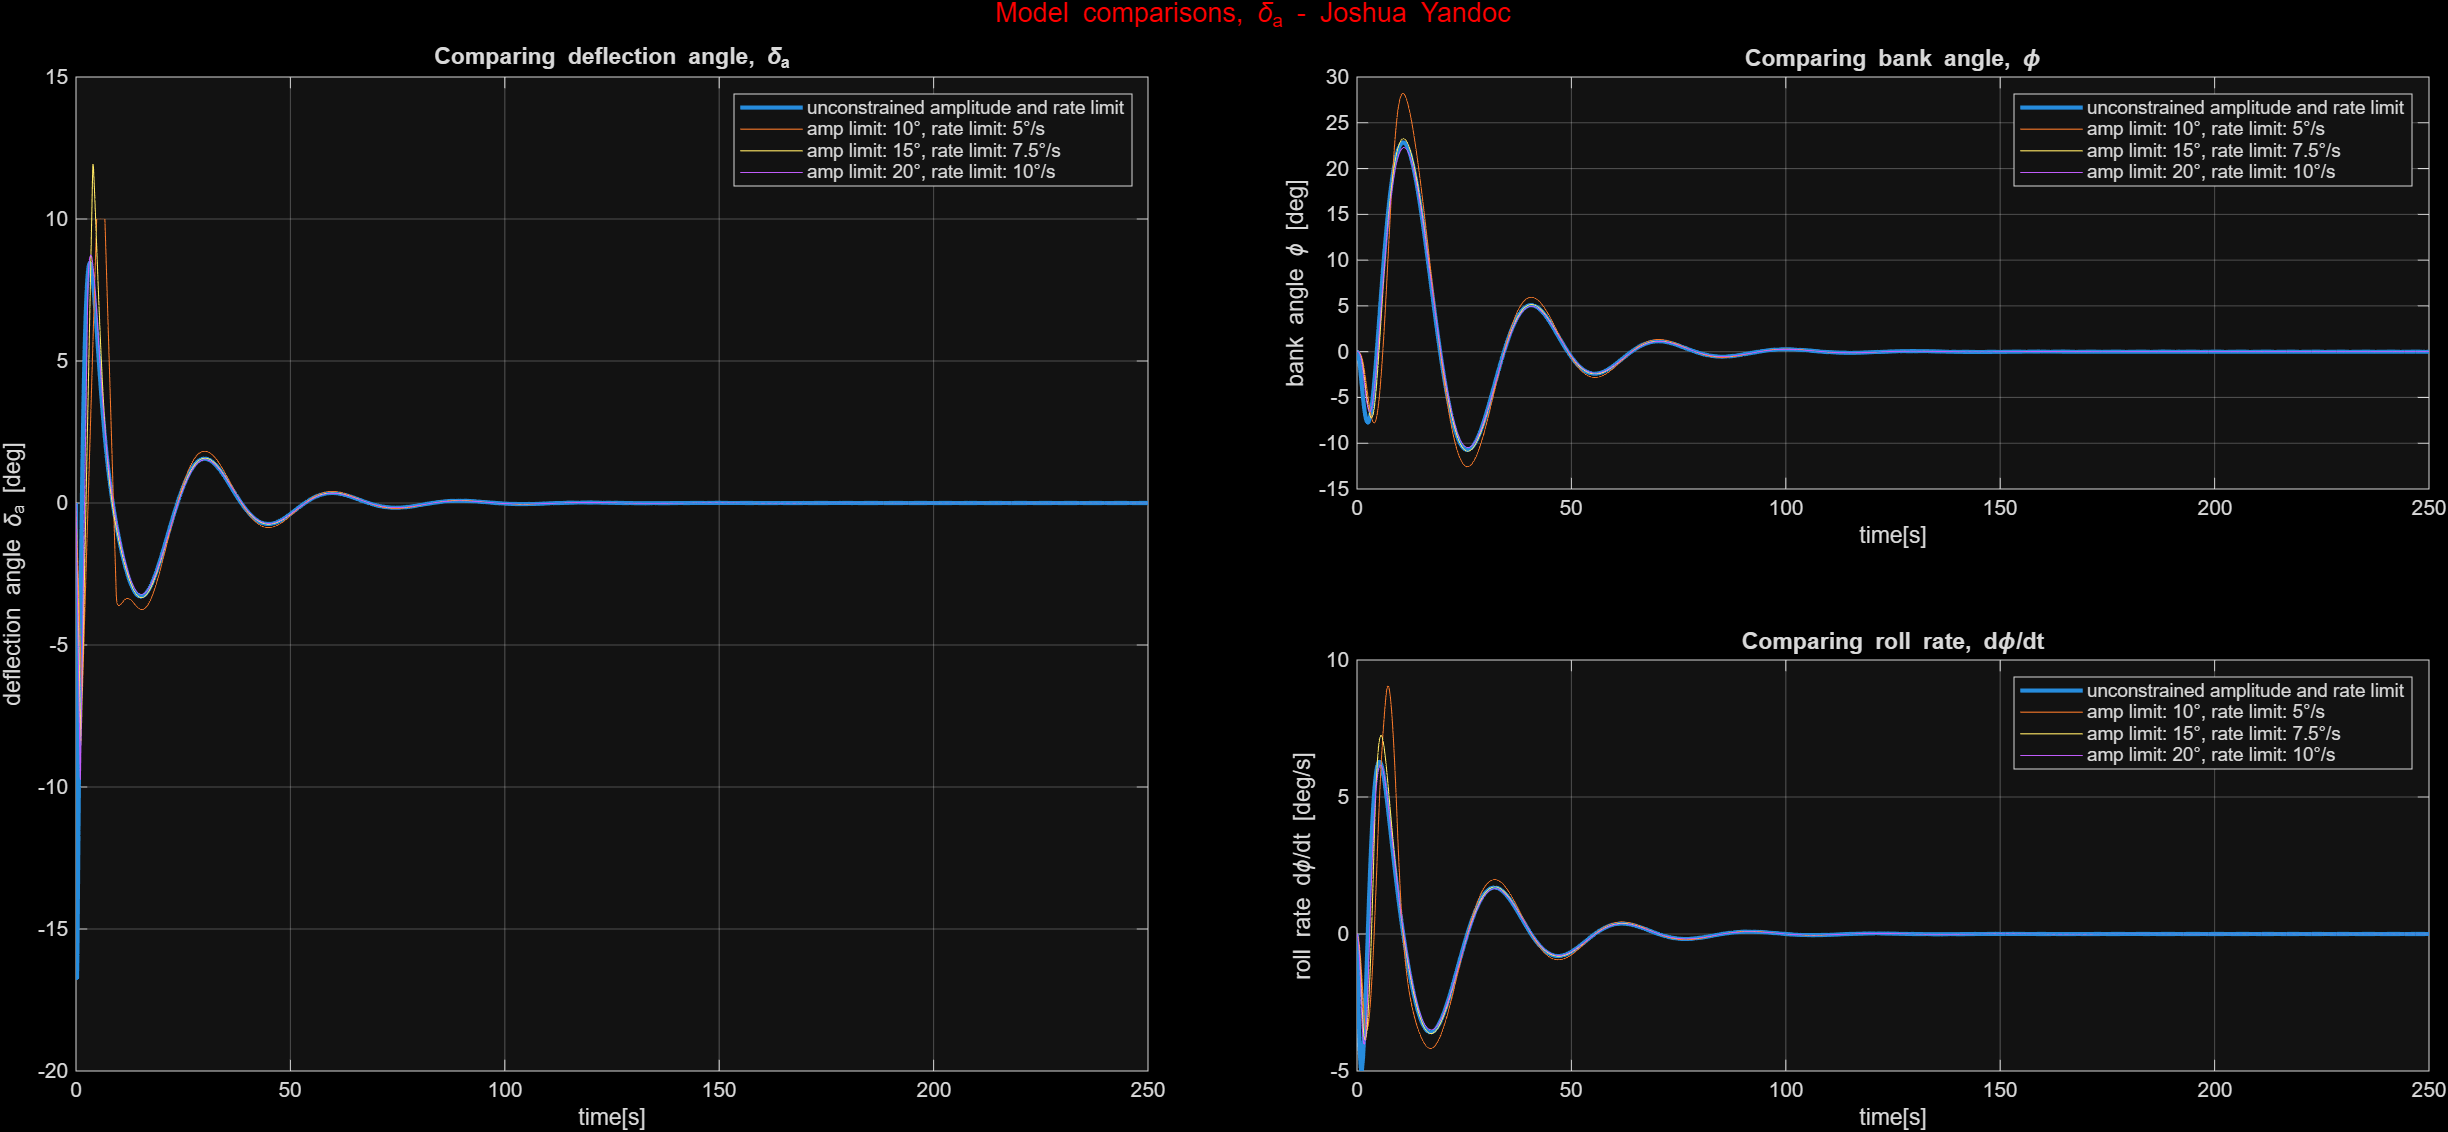
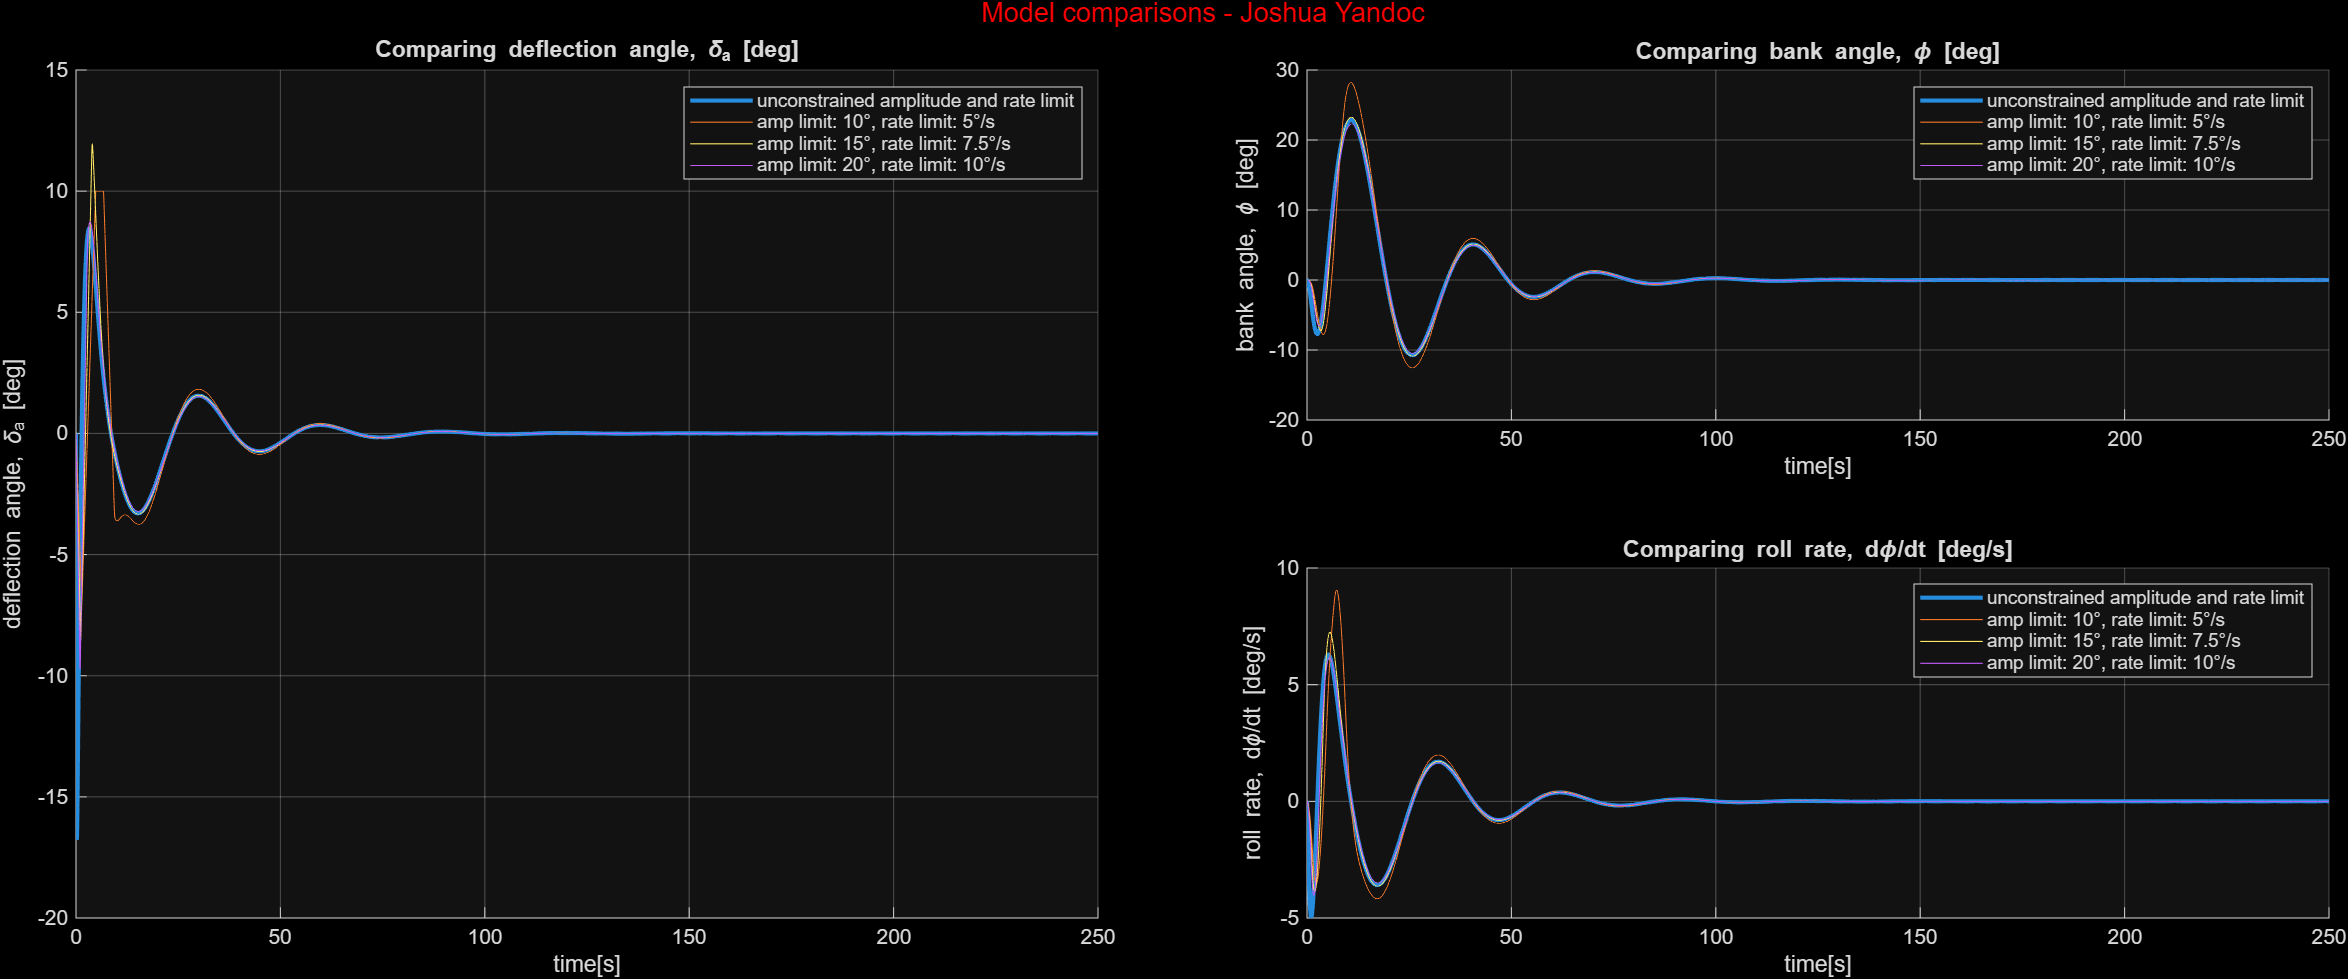
Code Refactor/Cleaning
- Refactored all the plotting code in a total of 4 new function files
- Allows easier readability & reduced code in main script by ~50%

diff --git a/plot_comparison.m b/plot_comparison.m
@@ -1,0 +1,31 @@
+function [ax, h] = plot_comparison(simout,state_arr, ax, state_str)
+
+    % Used for plotting a comparison plot for a specified state
+    
+    % ax = axes handles
+    % h = line handles
+
+    % Check if an axes handle was passed; if not, create one
+    if nargin > 2
+        hold(ax, 'on')
+    else
+        ax = axes; % Create a new axes if none was provided
+    end
+   
+    if nargin < 4
+        state_str = "<undefined state>";
+    end
+
+    block_time = simout.tout; 
+    h(1) = plot(ax, block_time, state_arr(1,:), 'linewidth', 2);
+    grid (ax, 'on')
+    hold on
+    for i = 2:1:size(state_arr, 1)
+       h(i) = plot(ax, block_time, state_arr(i,:));
+    end
+
+    title(ax, "Comparing " + state_str)
+    xlabel(ax, 'time[s]')
+    ylabel(ax, state_str)
+
+end

diff --git a/phase1_constrained_control_improvements.md b/phase1_constrained_control_improvements.md
@@ -18,8 +18,11 @@ Much like the phase 0 log, this document is meant to log the system's updates as
     Regarding the feedback behavior issue - I tried various solutions: variant subsystem post DC motor, changing the deflection subsystem into saturated DC motor, and finally, imposing the saturation and rate limit within the coupled DC motor system itself
 
     # Values
-    - Saturation limit of +/- 20 deg - Dec. 27, 2025
-    - Slew rate limit of +/- 10 deg/s - Dec. 27, 2025
+    - Saturation limits of +/- [10, 15, 20] deg - Dec. 27, 2025
+    - Slew rate limits of +/- [5, 7.5, 10] deg/s - Dec. 27, 2025
+    - Chosen actuator limit set: - Dec 30, 2025 
+        - Amplitude (sat) limit: 20 deg
+        - Rate limit: 10 deg/s
 
 ## Testing/Validation with different initial conditions
 1. Scenario 0 - Original Refernce Case
@@ -58,6 +61,10 @@ Much like the phase 0 log, this document is meant to log the system's updates as
 4. Update: Cleaned up code a little and made a new plot (see commit titled "phase1-actuator-limits
     Update: Updated code and plots" for more detailed explanation) - Dec 30, 2025
 5. Update: More code cleaning/optimization before moving on - Created new functions 'plot_script_sim' 'plot_simulink_sim_states', and 'plot_delA' to handle the plotting and make main script look much more clean/easier to read - Jan 1, 2026
+    Pick-up: Finish writing 'plot_delA' function - Jan 1, 2026
+6. Update: Finished writing 'plot_delA' as well as writing another function, 'plot_comparison' to compare states on a single plot - Jan 1/2, 2026
+    Comment: While analytical progress wasn't made today, the consolidation and refactoring of my code ensures better readability down the line as the project progresses further.
+7. Pick-up: Sim with different initial conditions + begin retuning with the chosen actuator limit set - Jan 2, 2026
 
 ## Future work/optimization
 1. look into making another function 'compare_act_limits' that only runs the for-loop for plotting/comparing different actuator limits when a conditional is met (say, USE_ACT_LIMITS == true/false ?) - Jan 1, 2026
